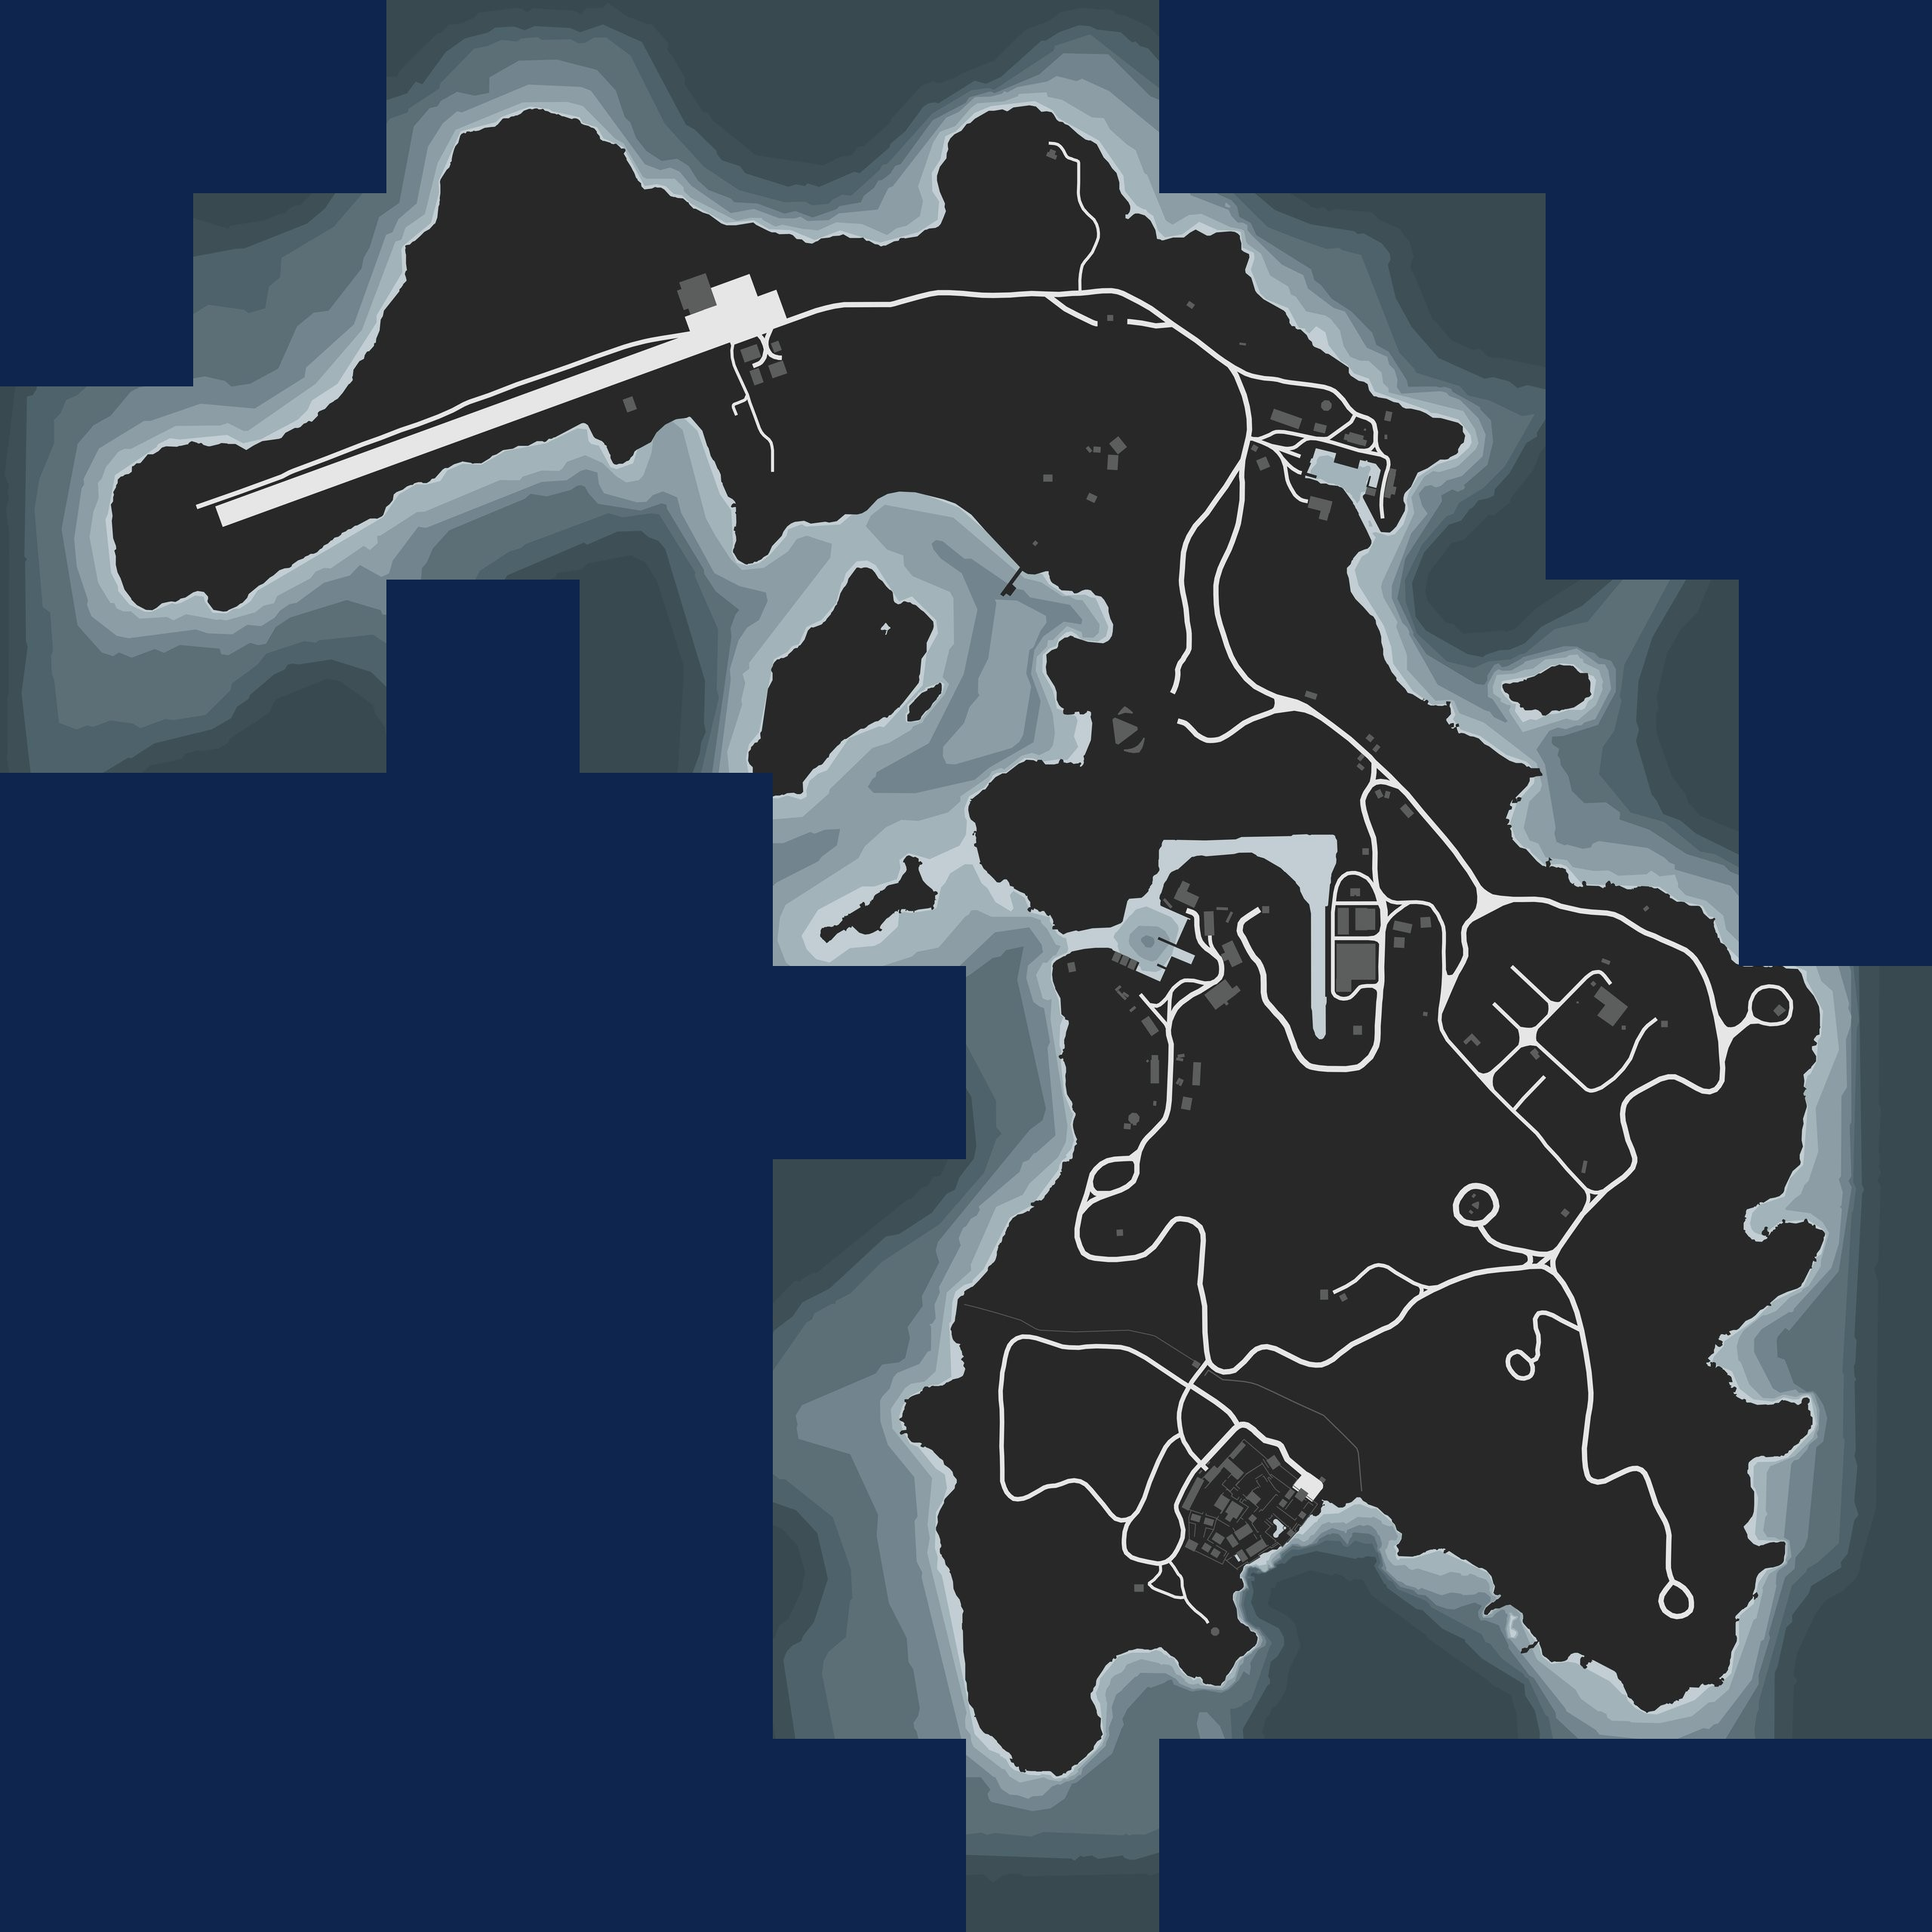
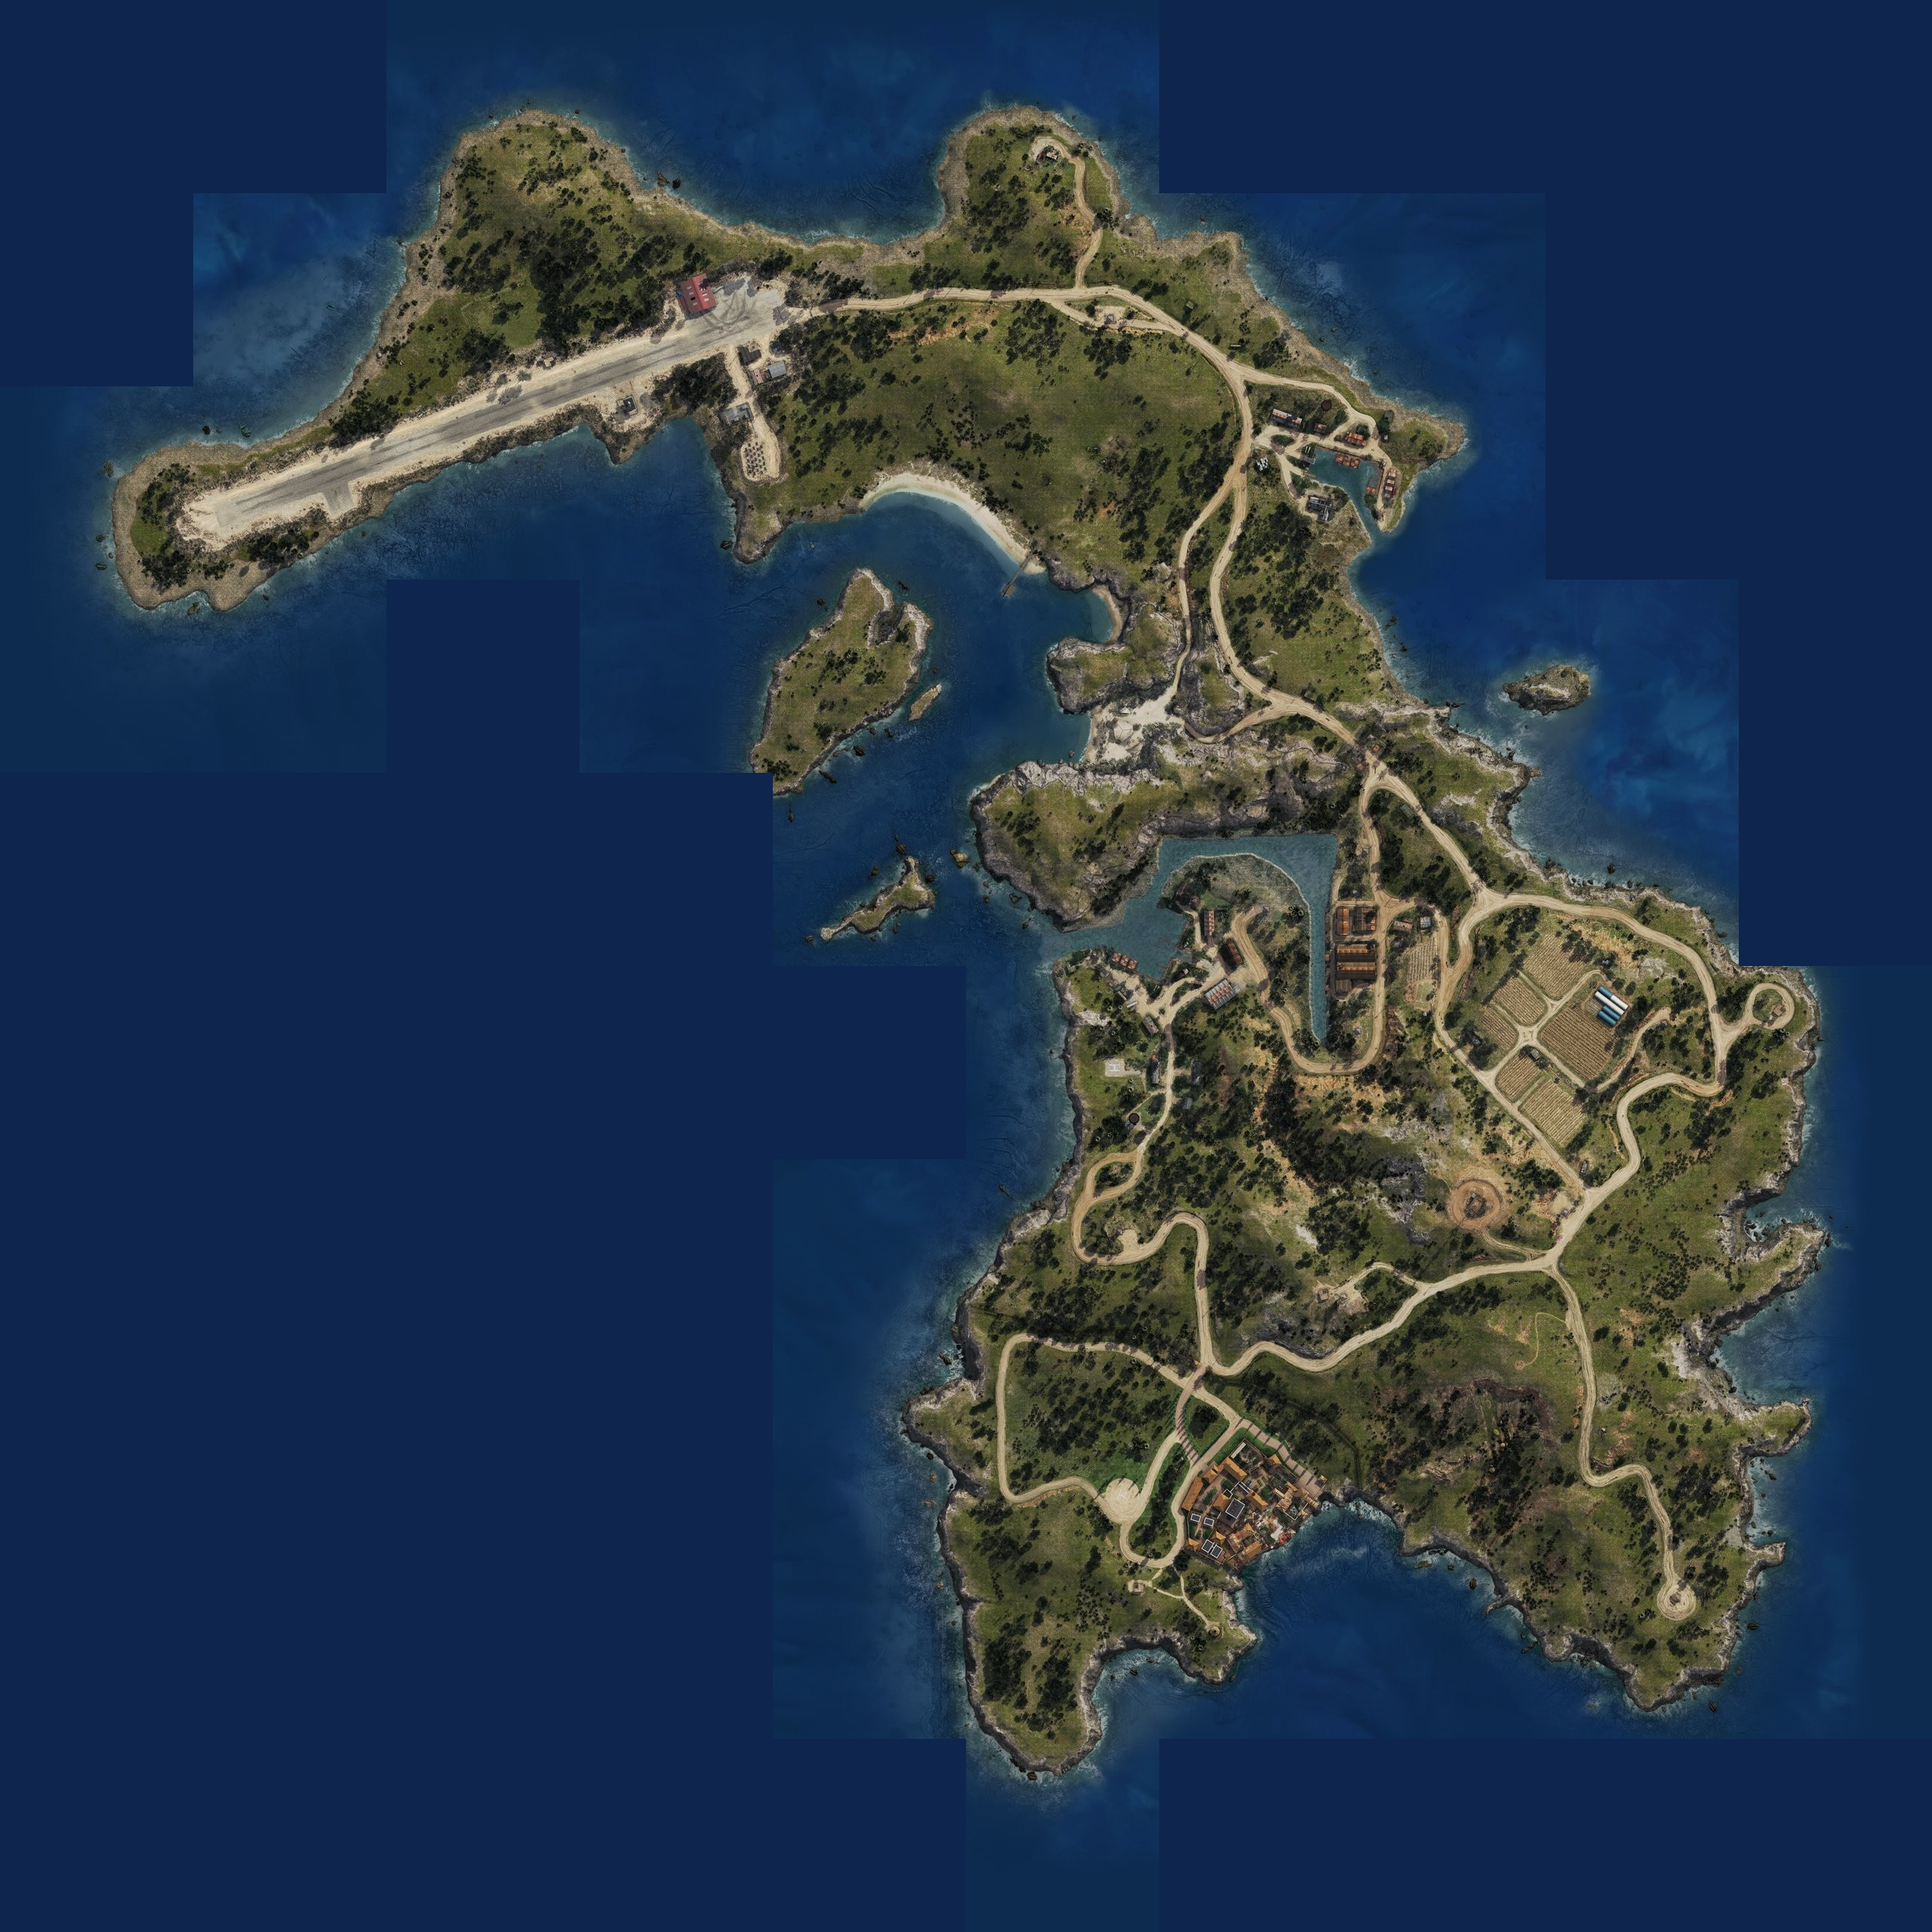
Fix Atlas/Satellite: swap image files to correct labels

diff --git a/map-app.js b/map-app.js
@@ -4,8 +4,8 @@
       los_santos: {
         bounds: [[-4000, -4000], [4000, 4000]],
         images: {
-          atlas: '/map-images/satellite_hi.jpg',
-          satellite: '/map-images/atlas_hi.jpg',
+          atlas: '/map-images/atlas_hi.jpg',
+          satellite: '/map-images/satellite_hi.jpg',
           road: '/map-images/road_hi.jpg'
         },
         type: 'image'
@@ -13,8 +13,8 @@
       cayo_perico: {
         bounds: [[-5400, 3700], [-4150, 4950]],
         images: {
-          atlas: '/map-images/cayo_perico_satellite.jpg',
-          satellite: '/map-images/cayo_perico_atlas.jpg',
+          atlas: '/map-images/cayo_perico_atlas.jpg',
+          satellite: '/map-images/cayo_perico_satellite.jpg',
           road: '/map-images/cayo_perico_road.jpg'
         },
         type: 'image'
